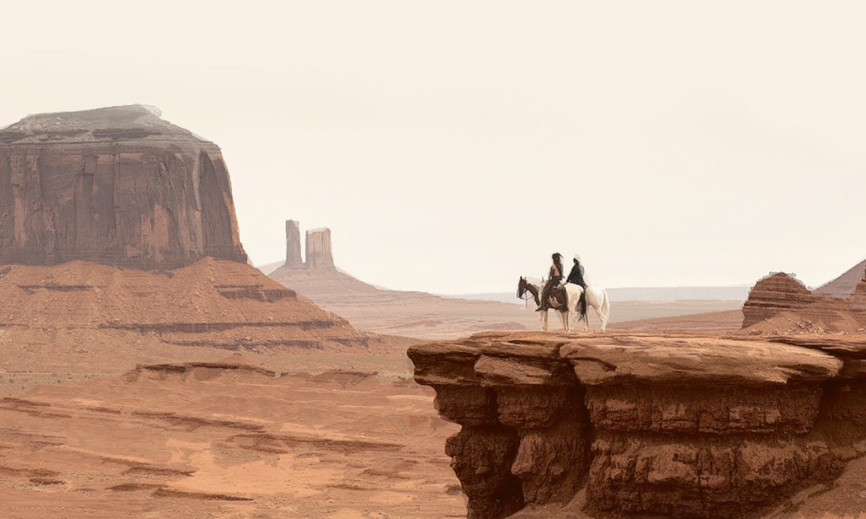
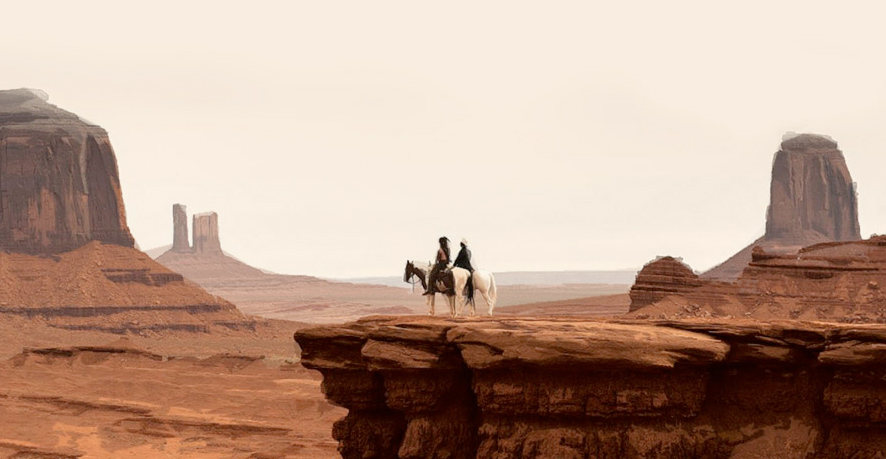
nettoyage css

diff --git a/styles/css/app.css b/styles/css/app.css
@@ -264,7 +264,7 @@ body {
   font-size: 16px;
   line-height: 1.42857;
   color: #333333;
-  background-color: #fff; }
+  background-color: #f8ecde; }
 
 input,
 button,
@@ -275,7 +275,7 @@ textarea {
   line-height: inherit; }
 
 a {
-  color: #337ab7;
+  color: #230d07;
   text-decoration: none; }
   a:hover, a:focus {
     color: #23527c;
@@ -1361,7 +1361,7 @@ th {
   .table > tbody + tbody {
     border-top: 2px solid #ddd; }
   .table .table {
-    background-color: #fff; }
+    background-color: #f8ecde; }
 
 .table-condensed > thead > tr > th,
 .table-condensed > thead > tr > td,
@@ -2229,7 +2229,7 @@ a.btn.disabled, fieldset[disabled] a.btn {
     background-color: #fff; }
 
 .btn-link {
-  color: #337ab7;
+  color: #230d07;
   font-weight: normal;
   border-radius: 0; }
   .btn-link, .btn-link:active, .btn-link.active, .btn-link[disabled], fieldset[disabled] .btn-link {
@@ -2561,25 +2561,23 @@ STYLES.CSS
 html,
 body {
   height: 100%;
-  width: 100%;
-  background-color: #f3e8d6; }
+  width: 100%; }
 
 img {
   max-width: 100%; }
 
 .form-control:focus {
   border-color: #cb6222;
-  box-shadow: inset 0 1px 1px rgba(0, 0, 0, 0.075), 0 0 8px rgba(203, 98, 34, 0.6); }
+  box-shadow: inset 0 1px 1px rgba(0, 0, 0, 0.075), 0 0 8px rgba(203, 98, 34, 0); }
 
 .teaser {
-  background: url("../../img/background.jpg") center center no-repeat;
+  background-image: url("../../img/background.jpg");
+  background-repeat: no-repeat;
   background-size: cover;
-  text-align: center;
+  background-position: center 100px;
   color: #230d07; }
   .teaser .container {
     padding-top: 2rem; }
-    .teaser .container a {
-      color: #230d07; }
     .teaser .container h2 {
       font-size: 3.4em; }
     .teaser .container h3 {
@@ -2594,26 +2592,16 @@ img {
       max-width: 450px;
       margin: 2em auto; }
 
-@media (min-width: 1280px) {
-  .teaser {
-    background-position: center center;
-    background-size: cover; } }
 @media (min-width: 1200px) {
-  .teaser p {
-    padding: 0 3rem; } }
-@media (max-width: 1199px) {
-  .teaser h2 {
-    font-size: 3rem; } }
+  .teaser {
+    background-position: center center; }
+    .teaser p {
+      padding: 0 3rem; } }
 @media (max-width: 991px) {
   .teaser h2 {
     font-size: 3.1em; } }
 @media (max-width: 767px) {
   .teaser {
-    background-image: none; }
-
-  .teaser {
-    /*background-image:none;*/ }
-    .teaser h3, .teaser h2 {
-      font-family: 'Fjalla One', sans-serif; } }
+    background-image: none; } }
 
 /*# sourceMappingURL=app.css.map */

diff --git a/styles/_base.scss b/styles/_base.scss
@@ -5,7 +5,6 @@ html,
 body {
     height: 100%;
     width: 100%;
-    background-color:#f3e8d6;
 }
 
 img {
@@ -14,25 +13,20 @@ img {
 
 .form-control:focus {
   border-color:  $brand-primary;
-  box-shadow: inset 0 1px 1px rgba(0, 0, 0, 0.075), 0 0 8px rgba(203, 98, 34, 0.6);
+  box-shadow: inset 0 1px 1px rgba(0, 0, 0, 0.075), 0 0 8px rgba(203, 98, 34, 0);
 }
 
 //== Teaser
 //
 .teaser {
-
-    background: url('../../img/background.jpg') center center no-repeat;
+    background-image: url('../../img/background.jpg') ;
+    background-repeat: no-repeat;
     background-size:cover;
-    text-align: center;
+    background-position :center 100px ;
     color : #230d07;
-
     .container {
-        padding-top: 2rem ;
-
-        a {
-            color : #230d07;
-        }
-
+        padding-top: 2rem;
+        
         h2 {
             font-size:3.4em;
         }
@@ -41,7 +35,7 @@ img {
             font-size:1.8em; 
             margin-top: 1em;
         }
-
+        
         h3, h2 {
             font-family: 'Fjalla One', sans-serif;
         }
@@ -57,38 +51,18 @@ img {
         }
 
     }
-
 }
-
 
 //== Responsive
 //
 
-@media (min-width: 1280px) { 
-    .teaser {
-       
-        background-position: center center;
-        background-size: cover; 
-    }
-}
-
-
 @media (min-width: $screen-lg-min){
     .teaser {
+         background-position :center center;
         p {
             padding: 0 3rem ;
         }
     }
-}
-
-
-@media (max-width: $screen-md-max){
-    .teaser{      
-        h2 {
-            font-size:3rem;
-        }
-    }
-
 }
 
 @media (max-width: $screen-sm-max){
@@ -98,22 +72,8 @@ img {
         }
     }
 }
-
 @media (max-width: $screen-xs-max) {  
-    body, html {
-
-    }
-    
-    .teaser{
-       
+    .teaser {
         background-image:none;
-        
     }
-    .teaser{
-        /*background-image:none;*/
-        h3, h2 {
-            font-family: 'Fjalla One', sans-serif;
-        }
-    }
-
 } 

diff --git a/index.html b/index.html
@@ -1,25 +1,19 @@
 <!DOCTYPE html>
 <html lang="en">
     <head>
-
         <title>La conquête de l'ouest</title>
-        <!-- Required meta tags always come first -->
         <meta charset="utf-8">
         <meta name="viewport" content="width=device-width, initial-scale=1, shrink-to-fit=no">
-        <meta http-equiv="x-ua-compatible" content="ie=edge">
-
-        <!-- Bootstrap CSS -->
+        <meta http-equiv="x-ua-compatible" content="ie=edge"> 
         <link rel="stylesheet" href="styles/css/app.css">
         <link href='https://fonts.googleapis.com/css?family=Fjalla+One' rel='stylesheet' type='text/css'>
     </head>
     
     <body class="teaser">
         <div class="container">
-            
-            <div class="col-sm-8 col-sm-offset-2">
+            <div class="col-sm-8 col-sm-offset-2 text-center">
                 <h1><img src="img/logo_cdlo.png"/></h1>
                 <h2>Bientôt de retour sur vos écrans</h2>
-
                 <form class="form-group">
                     <div class="row">  
                         <div class="input-group">
@@ -30,18 +24,14 @@
                         </div><!-- /input-group -->
                     </div><!-- /.row -->
                 </form> 
-
                 <div class="row">
                     <p>Lorem ipsum dolor sit amet, consectetur adipiscing elit, sed do eiusmod tempor incididunt ut labore et dolore magna aliqua. Ut enim ad minim veniam, quis nostrud exercitation ullamco laboris nisi ut aliquip ex ea commodo consequat</p>
                     <a href="#">Lorem ipsum dolor</a> 
                     <h3>Ici on tire d’abord, et on clique après</h3>
                 </div>
-
             </div>
         </div>
-        
         <img src="img/background-responsive.jpg" class="visible-xs" />
-        
     </body>
 </html>
 

diff --git a/styles/_variables.scss b/styles/_variables.scss
@@ -28,12 +28,12 @@
 //## Settings for some of the most global styles.
 
 //** Background color for `<body>`.
- //$body-bg:               #f3e8d6;
+ $body-bg:               #f8ecde;
 //** Global text color on `<body>`.
 // $text-color:            $gray-dark
 
 //** Global textual link color.
-// $link-color:            $brand-primary
+  $link-color:            #230d07;
 //** Link hover color set via `darken()` function.
 // $link-hover-color:      darken($link-color, 15%)
 //** Link hover decoration.

diff --git a/README.md b/README.md
@@ -1,7 +1,7 @@
 ## Utilisation
-	Une seule feuille de style chargées > app.css
-	Css décomposés en deux dossiers, bootstrap-sass et styles, pour les surcharges.
-	Toutes les customisation se font donc dans ce dernier dossier (styles) :
+	Une seule feuille de style chargées styles/css/app.css
+	Css décomposés en deux dossiers, "bootstrap-sass/" et "styles/"
+	Toutes les customisations se font donc dans le dossier "styles/":
 	- apps.scss se charge de l'import des partials nécessaires (bootstrap + surcharges)
 	- variables.scss sert à définir les variables principales (couleurs , typo etc ..)
 	- base.scss pour les styles plus "spécifiques"
